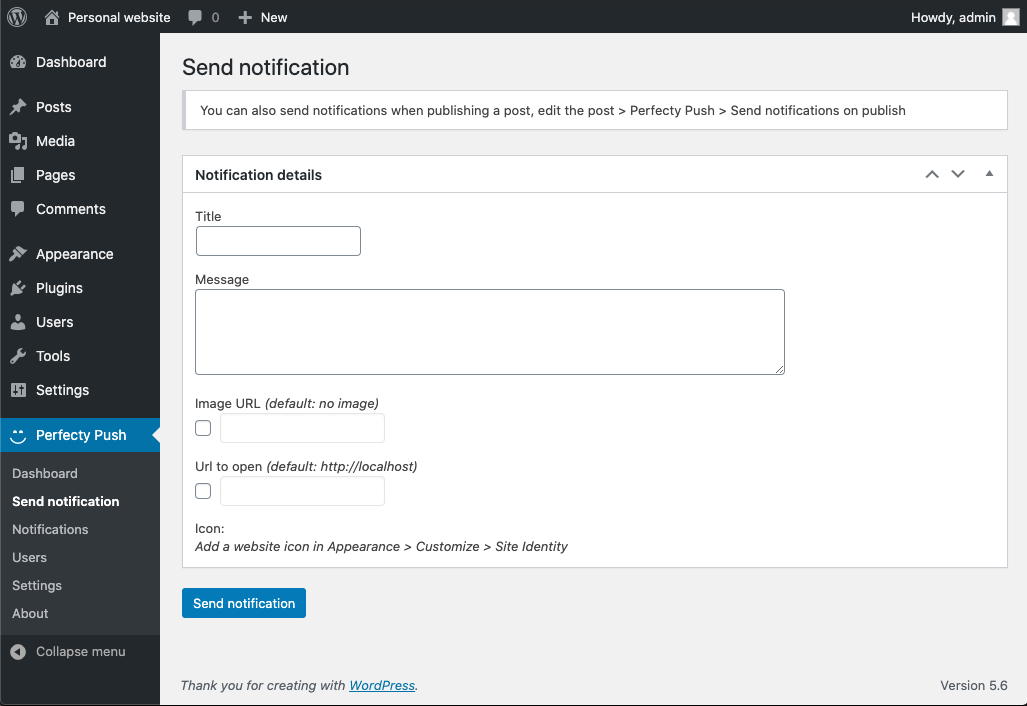
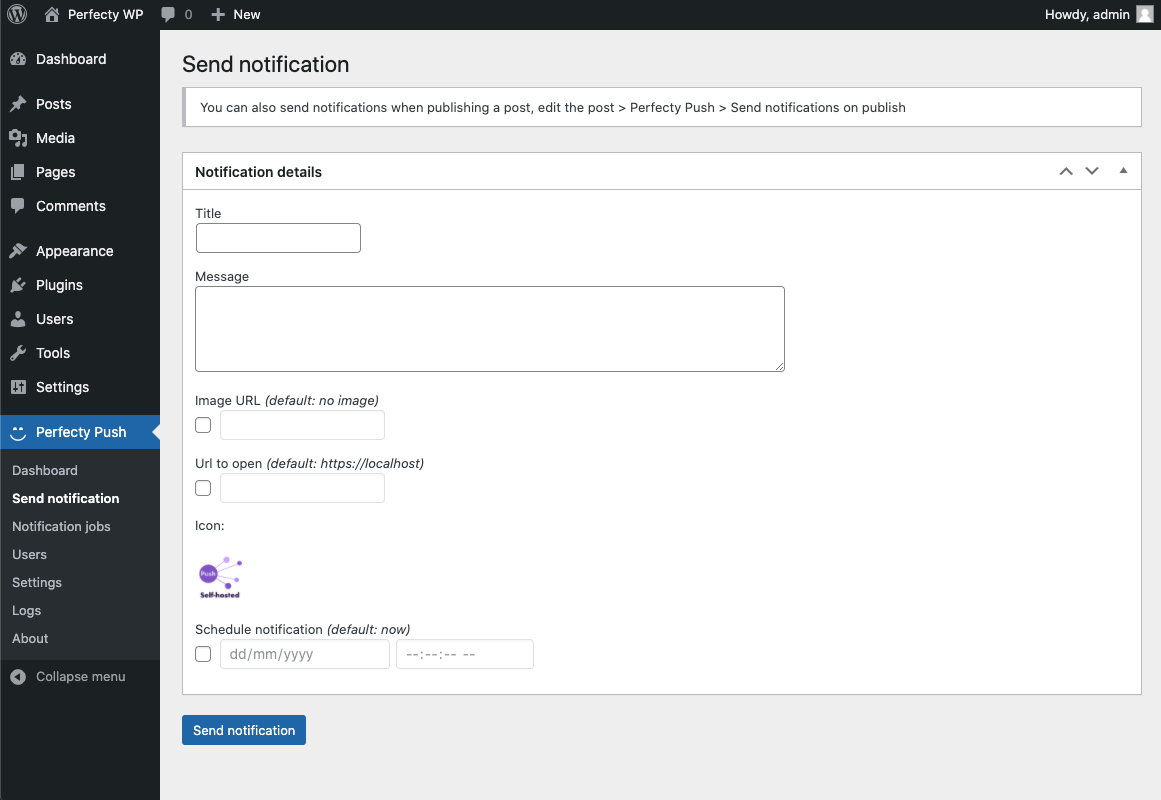
Update the Settings after `v1.3.0`

diff --git a/docs/wp/configuration.md b/docs/wp/configuration.md
@@ -7,20 +7,18 @@ There are currently three different areas you can configure:
 
 ## 1. Public widget
 
-They are for the frontend widgets (The Subscription dialog and the Bell button) and the Javascript SDK.
+They affect the controls shown in the front page (the Subscription prompt/the Bell icon).
 
-![images/settings-1.png](images/settings-1.png)
+![images/settings-widget.png](images/settings-widget.png)
 
 Each of the values is described below:
 
-Property | Default value | Description
+Setting | Default value | Description
 --- | --- | ---
 Enabled | `True` | Show the widget in your website public frontend.
-Remove conflicting workers (Don't use it with PWA/AMP) | `False` | Removes all the workers from all the scopes (useful when migrating from another provider). Don't use this in a PWA/AMP website.
-Enable debugging | `False` | Enable the debugging in the JS SDK. Useful for troubleshooting.
-Service Worker Scope | `/perfecty/push` | This is the scope of the service worker. By default we use a value different than root `(/)`
-Do not use widgets (ask permissions directly) | `False` | Ask permissions right after the use visits the website. Don't use the dialog/bell controls.
-Hide bell after subscribing | `False` | Hides the bell after the user has subscribed to your website. Note that the user will not have a way to unsubscribe and will be forced to revoke you the Browser permissions.
+Display after this number of visits | `0` | Required number of visits to the website before displaying the subscription prompt.
+Do not use widgets (ask permissions directly) | `False` | Ask permissions right after the use visits the website. Will not show the dialog/bell controls.
+Hide bell after subscribing | `False` | Hides the bell after the user has subscribed to your website. Note that the users will not have a way to unsubscribe and will be forced to revoke you the Browser permissions.
 Subscribe text | `''` | This is the text of the question asked to the user for subscribing to Push Notifications. (Default: `Do you want to receive notifications?`)
 Continue text | `''` | Text of the Button to continue (Default: `Continue`)
 Cancel text | `''` | Text of the Button to cancel (Default: `Cancel`)
@@ -28,11 +26,58 @@ Bell title | `''` | Title of the Settings dialog when the Bell icon is clicked (
 Opt-in text | `''` | Text of the Opt-in checkbox (Default `I want to receive notifications`)
 Message on update error | `''` | Text shown when there's an error updating the preferences (Default: `Could not change the preference, please try again`)
 
-## 2. Self-hosted server
+## 2. Javascript SDK
+
+They define how the SDK performs the registration and the Push Notifications.
+
+![images/settings-js-sdk.png](images/settings-js-sdk.png)
+
+Setting | Default value | Description
+--- | --- | ---
+Service Worker Scope | `/perfecty/push` | This is the scope of the service worker. By default we use a value different than root `(/)`
+Remove conflicting workers (Don't use it with PWA/AMP) | `False` | Removes all the workers from all the scopes (useful when migrating from another provider). Don't use this in a PWA/AMP website.
+Custom conflict detection | `''` | Specify a custom JS regex expression to remove specific conflicting Service Workers.  [More information](./conflict-resolution/)<br /><br /> Default expression: `(OneSignalSDKWorker|wonderpush-worker-loader|webpushr-sw|subscribers-com\/firebase-messaging-sw|gravitec-net-web-push-notifications|push_notification_sw)`
+Enable Client Logs| `False` | Enable the logs in the client (which uses the Javascript SDK). Useful for troubleshooting.
+
+## 3. Notifications
+
+Change the notifications that the users receive in their Browsers/Mobiles.
+
+![images/settings-notifications.png](images/settings-notifications.png)
+
+Setting | Default value | Description
+--- | --- | ---
+Fixed notifications (do not auto hide) | `False` | If checked the notifications will not disappear. Otherwise, they will fade out automatically after a couple of seconds.
+Default Icon | `Website's icon` | The default icon to be sent in all the notifications.
+
+## 4. Segmentation and Tracking
+
+This is for the user segmentation capabilities (still under development).
+
+![images/settings-segmentation.png](images/settings-segmentation.png)
+
+For the moment it supports the following values:
+
+Property | Default value | Description
+--- | --- | ---
+Enable and collect data from users | `False` | If enabled it will collect and store the IP address from the subscribers.
+UTM analytics | `''` | Paste the UTM Tracking for Google Analytics, for example: `utm_source=perfecty-push&utm_medium=web-push&utm_campaign=my-campaign-name`.
+
+## 5. Post publishing
+
+How to send notifications automatically after publishing a Post. 
+
+![images/settings-post-publishing.png](images/settings-post-publishing.png)
+
+Setting | Default value | Description
+--- | --- | ---
+Always send a notification | `False` |  It will always send a Push Notification when a Post is published. You can define it per post in the Post's metabox.
+
+## 6. Self-hosted server
 
 Define the options for your self-hosted Push Server.
 
-![images/settings-2.png](images/settings-2.png)
+![images/settings-server.png](images/settings-server.png)
 
 You can define the following values:
 
@@ -42,16 +87,4 @@ Vapid Private Key | Auto generated | Private VAPID Key
 Vapid Public Key | Auto generated | Public VAPID Key (Used in the JS SDK)
 Custom REST Url | The value returned by [`get_rest_url()`](https://developer.wordpress.org/reference/functions/get_rest_url/) | This is the REST API url to call from the Javascript SDK
 Batch Size | `30` | The number of notifications to send in each batch. Each execution from `wp-cron` will send this number of push messages and will continue in the next cycle.
-Enable logs | `False` | Enables the logs in the server side.
-
-## 3. Segmentation
-
-This is for the user segmentation capabilities (still under development).
-
-![images/settings-3.png](images/settings-3.png)
-
-For the moment it supports the following values:
-
-Property | Default value | Description
---- | --- | ---
-Enable and collect data from users | `False` | If enabled it will collect and store the IP address from the subscribers.
+Enable Server Logs | `False` | Enables the logs in the Push Server.
